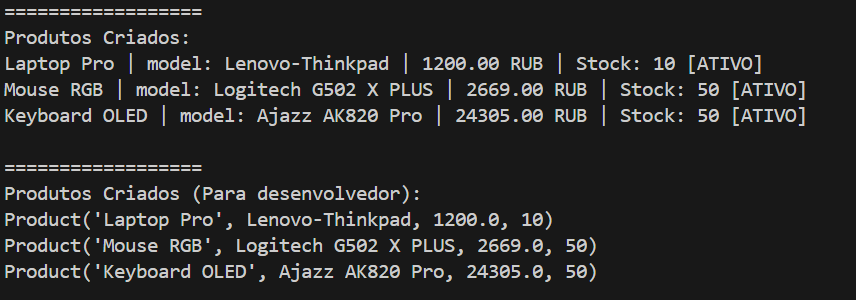
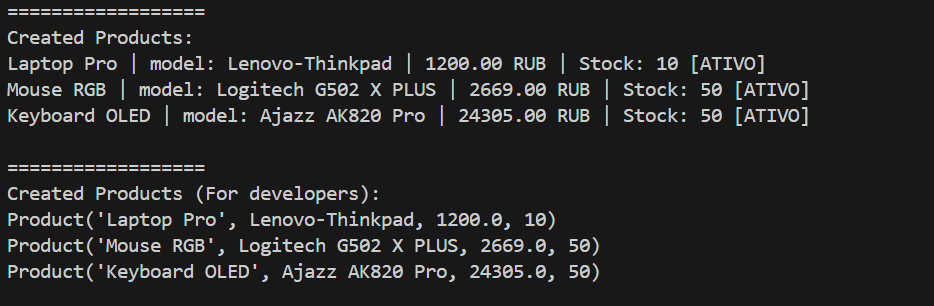
LAB01_TRANSLATED_OUTPUT

diff --git a/src/lab01/demo.py b/src/lab01/demo.py
@@ -8,19 +8,19 @@ def run_demo():
     try:
         invalid_product = Product("", "Lenovo-Thinkpad", 1200.0, 10)  # Empty name
     except ValueError as e:
-        print(f"Captura de erro esperada: {e}") #Name cannot be empty
+        print(f"Ожидаемый перехват ошибок:: {e}") #Name cannot be empty
     try:
         invalid_product = Product("Printer", "   ", 1200.0, 10)  # Model's name
     except ValueError as e:
-        print(f"Captura de erro esperada: {e}") #Model must have at least 3 chars    
+        print(f"Ожидаемый перехват ошибок:: {e}") #Model must have at least 3 chars    
     try:
         invalid_product = Product("Printer", "Lenovo-Thinkpad", -4, 10)  # Invalid price
     except ValueError as e:
-        print(f"Captura de erro esperada: {e}") #Price must be at least 0 (means free product - eg, marketing blackfriday)
+        print(f"Ожидаемый перехват ошибок:: {e}") #Price must be at least 0 (means free product - eg, marketing blackfriday)
     try:
         invalid_product = Product("Printer", "Lenovo-Thinkpad", 1200.0, -4)  # Invalid stock value
     except ValueError as e:
-        print(f"Captura de erro esperada: {e}") #stock must begin from 0
+        print(f"Ожидаемый перехват ошибок:: {e}") #stock must begin from 0
 
     # Demonstração de Sucesso e Estado
     inventory = [
@@ -29,23 +29,23 @@ def run_demo():
         Product("Keyboard OLED", "Ajazz AK820 Pro", 24305.00, 50),
         Product("Laptop Pro", "Lenovo-Thinkpad", 1200.0, 10) # Duplicado (mesmo nome e modelo)
     ]
-    print("\n--------Comparação de produtos-------------")
+    print("\n--------Comparation of products-------------")
     for i in range(len(inventory)): #i pega os 4 elementos. A iteração começa com i=0
         for j in range(i + 1, len(inventory)): # j pega i+1 até 4-3, ou seja sai de i+1 até 3
             # O método __eq__ será chamado aqui e disparará o Warning se forem iguais
             if inventory[i] == inventory[j]: #Primeia iteração, por exemplo, compara se item[0]==item[1]
-                print(f"   -> Ação sugerida: Unificar stock dos itens {i+1} e {j+1}.\n")#+1, por causa do utilizador.
+                print(f"   -> Предлагаемое действие: Унифицировать складские запасы товаров. {i+1} и {j+1}.\n")#+1, por causa do utilizador.
 
     #Reorganização dos produtos, depois de haver feito a comparação em nome e modelo.
     p1 = inventory[0]  # Laptop Pro Lenovo-Thinkpad
     p2 = inventory[1]  # Mouse RGB Logitech G502 X PLUS
     p3 = inventory[2]  # Keyboard OLED Ajazz AK820 Pro
 
-    print(f"==================\nProdutos Criados: \n{p1}\n{p2}\n{p3}\n") #Vista Usuário
-    print(f"==================\nProdutos Criados (Para desenvolvedor): \n{repr(p1)}\n{repr(p2)}\n{repr(p3)}") #Vista programador
+    print(f"==================\nCreated Products: \n{p1}\n{p2}\n{p3}\n") #Vista Usuário
+    print(f"==================\nCreated Products (For developers): \n{repr(p1)}\n{repr(p2)}\n{repr(p3)}") #Vista programador
 
     
-    print("\n------------2. Testando Comportamento de Estado:----------------")
+    print("\n------------2. Проверка поведения состояния:----------------")
     p1.deactivate()
     p1.sell(1) # Deve ser bloqueado por estar inativo
     p1.activate()
@@ -63,12 +63,12 @@ def run_demo():
     Product.store_name="PROLTCH ANGOLA, Lda" #Nome da loja mudado para "PROLTCH ANGOLA, Lda"
     # Alteração via atributo de instância, alteração local - afecta paneas o produto
     p1.store_name="David" #Produto p1 é de uma loja/fabricante diferente
-    print(f"Via Class: {Product.store_name}") #PROLTCH ANGOLA, Lda
-    print(f"Via Instance p3: {p3.store_name}") #PROLTCH ANGOLA, Lda
-    print(f"Via Instance p1: {p1.store_name}") #David
+    print(f"Через класс: {Product.store_name}") #PROLTCH ANGOLA, Lda
+    print(f"Через экземпляр p3: {p3.store_name}") #PROLTCH ANGOLA, Lda
+    print(f"Через экземпляр p1: {p1.store_name}") #David
     
     #Produts updated list/status
-    print(f"\n==================\nProdutos: \n{p1}\n{p2}\n{p3}")
+    print(f"\n==================\Продукты: \n{p1}\n{p2}\n{p3}")
 
 if __name__ == "__main__":
     run_demo()

diff --git a/src/libraries/validation.py b/src/libraries/validation.py
@@ -3,7 +3,7 @@ def validate_non_empty_string(value, field_name="Campo"):
     Garante que as strings não estejam vazias.
     """
     if not isinstance(value, str) or not value.strip():
-        raise ValueError(f"Erro de Validação: {field_name} deve ser uma string não vazia.")
+        raise ValueError(f"Validation Error: {field_name} must be a non-empty string.")
     return value.strip()
 
 def validate_positive_number(value, field_name="Valor"):
@@ -11,7 +11,7 @@ def validate_positive_number(value, field_name="Valor"):
     Garante que valores numéricos sejam todos positivos, incluindo o zero.
     """
     if not isinstance(value, (int, float)) or value < 0:
-        raise ValueError(f"Erro de Validação: {field_name} deve ser um número >= 0.")
+        raise ValueError(f"Validation Error: {field_name} must be a number >= 0.")
         #preços iguais à 0: possibilidade de produtos grátis (promoção de marketing ou cliente bonificado)
     return float(value)
 
@@ -20,7 +20,7 @@ def validate_positive_int(value, field_name="Quantidade"):
     Garante que valores numéricos inteiros sejam todos positivos, incluindo o zero.
     """
     if not isinstance(value, int) or value < 0:
-        raise ValueError(f"Erro de Validação: {field_name} deve ser um número inteiro >= 0.")
+        raise ValueError(f"Validation Error: {field_name} must be an integer >= 0.")
     return value
 
 def validate_min_length(value, min_len, field_name="Texto"):
@@ -28,5 +28,5 @@ def validate_min_length(value, min_len, field_name="Texto"):
     Garante que string tenha um mínimo de caractere considerável.
     """
     if not isinstance(value, str) or len(value.strip()) < min_len:
-        raise ValueError(f"Erro de Validação: {field_name} deve ter pelo menos {min_len} caracteres.")
+        raise ValueError(f"Validation Error: {field_name} must have at least {min_len} characters.")
     return value.strip()
